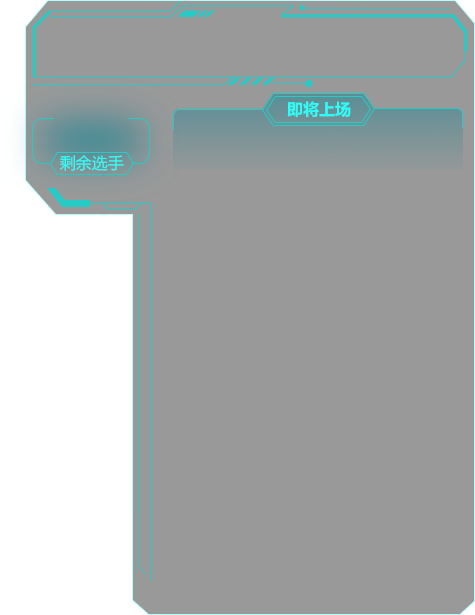
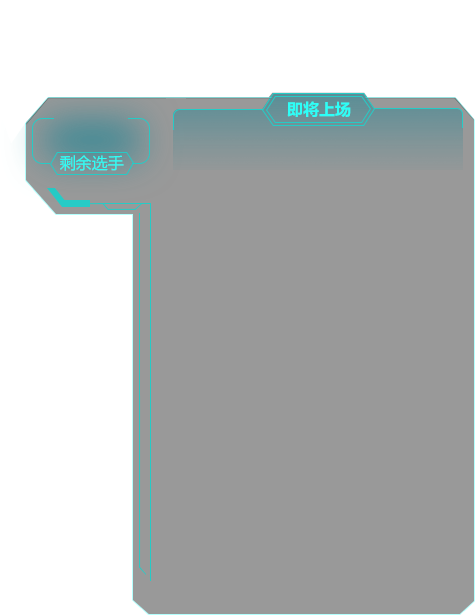
no ft

Changed region(s): [[0.0295, 0.0, 1.0, 0.2163]]

diff --git a/src/client/view/panel/stageOnline/preRound/PreRound.ts b/src/client/view/panel/stageOnline/preRound/PreRound.ts
@@ -136,15 +136,15 @@ export class PreRound extends PIXI.Container {
             this.ftMap[f.ftId] = f
             f.x = 51 + i * 50
             f.y = 20
-            this.addChild(f)
+            // this.addChild(f)
             this.ftArr.push(f)
         }
 
         this.playerLeftText = new PIXI.Text()
-        this.playerLeftText.y = 90
+        this.playerLeftText.y = 100
         let s = this.playerLeftText.style
         s.fontFamily = FontName.MicrosoftYahei
-        s.fontSize = '50px'
+        s.fontSize = '40px'
         s.fontWeight = 'bold'
         s.fill = '#2cfff8'
         this.addChild(this.playerLeftText)

diff --git a/src/static/view/panel.js b/src/static/view/panel.js
@@ -5561,14 +5561,13 @@
 	            this.ftMap[f.ftId] = f;
 	            f.x = 51 + i * 50;
 	            f.y = 20;
-	            this.addChild(f);
 	            this.ftArr.push(f);
 	        }
 	        this.playerLeftText = new PIXI.Text();
-	        this.playerLeftText.y = 90;
+	        this.playerLeftText.y = 100;
 	        var s = this.playerLeftText.style;
 	        s.fontFamily = const_1.FontName.MicrosoftYahei;
-	        s.fontSize = '50px';
+	        s.fontSize = '40px';
 	        s.fontWeight = 'bold';
 	        s.fill = '#2cfff8';
 	        this.addChild(this.playerLeftText);

diff --git a/src/convertRank.py b/src/convertRank.py
@@ -1,0 +1,85 @@
+
+from jsonDB import BaseDB
+
+
+class rankingData(object):
+
+    def __init__(self):
+        self.db = BaseDB('./db/rankingData.db')
+rd = rankingData()
+
+
+class RankDB(object):
+
+    def __init__(self):
+        self.db = BaseDB('./db/rank.db')
+rankDB = RankDB()
+
+
+def playerFilter(playerArr):
+    minSortId = -1
+    maxSortId = -1
+    playerArrFilter = []
+    newRanking = 1
+    if not playerArr:
+        return [], []
+    for player in playerArr:
+        if minSortId == -1:
+            minSortId = player['sortId']
+        if maxSortId == -1:
+            maxSortId = player['sortId']
+        if player['sortId'] < minSortId:
+            minSortId = player['sortId']
+        if player['sortId'] > maxSortId:
+            maxSortId = player['sortId']
+        if player['playCount'] == 0:
+            print('[0 game]:', player['playerName'], player['sortId'])
+        elif player['playCount'] < 3:
+            # print('[3 game]:', player['playCount'],
+            #       player['playerName'], player['sortId'])
+            pass
+        else:
+            player['ranking'] = newRanking
+            newRanking += 1
+            playerArrFilter.append(player)
+            # if isTop10 and len(playerArrFilter) > 9:
+            #     break
+    print('min', minSortId, 'max', maxSortId)
+    return playerArrFilter
+
+
+def getPlayerArrByPlayerId(dateStr, playerNameArr):
+    dateStr = '2017-07-31'
+    doc = rd.db.find({'date': dateStr})
+    a = []
+    if len(doc) > 0:
+        playerArr = playerFilter(doc[0]['raw'])
+        for pQuery in playerNameArr:
+            for p in playerArr:
+                if str(p['userId']) == str(pQuery):
+                    a.append(p)
+    return a
+
+
+def convertRankDB():
+    doc = rankDB.db.find({'idx': 's3'})
+    newPlayerArr = []
+    for p in doc[0]['rankArr']:
+        playerId = p['player_id']
+        playerName = str(p['name'])
+        ranking = p['ranking']
+# {"playerName": "\u4e36\u660e\u5929\u8fc7\u540e", "sortId": 1052, "userId": "5236"}
+        # print(playerName, p['ranking'])
+        newPlayerArr.append(
+            {"playerName": playerName, "sortId": ranking, "userId": playerId, 'playCount': 3})
+        pass
+    newDoc = {"raw": newPlayerArr,"date":"2017-07-31"}
+    rd.db.insert(newDoc)
+
+def main():
+    convertRankDB()
+    pass
+
+
+if __name__ == '__main__':
+    main()
